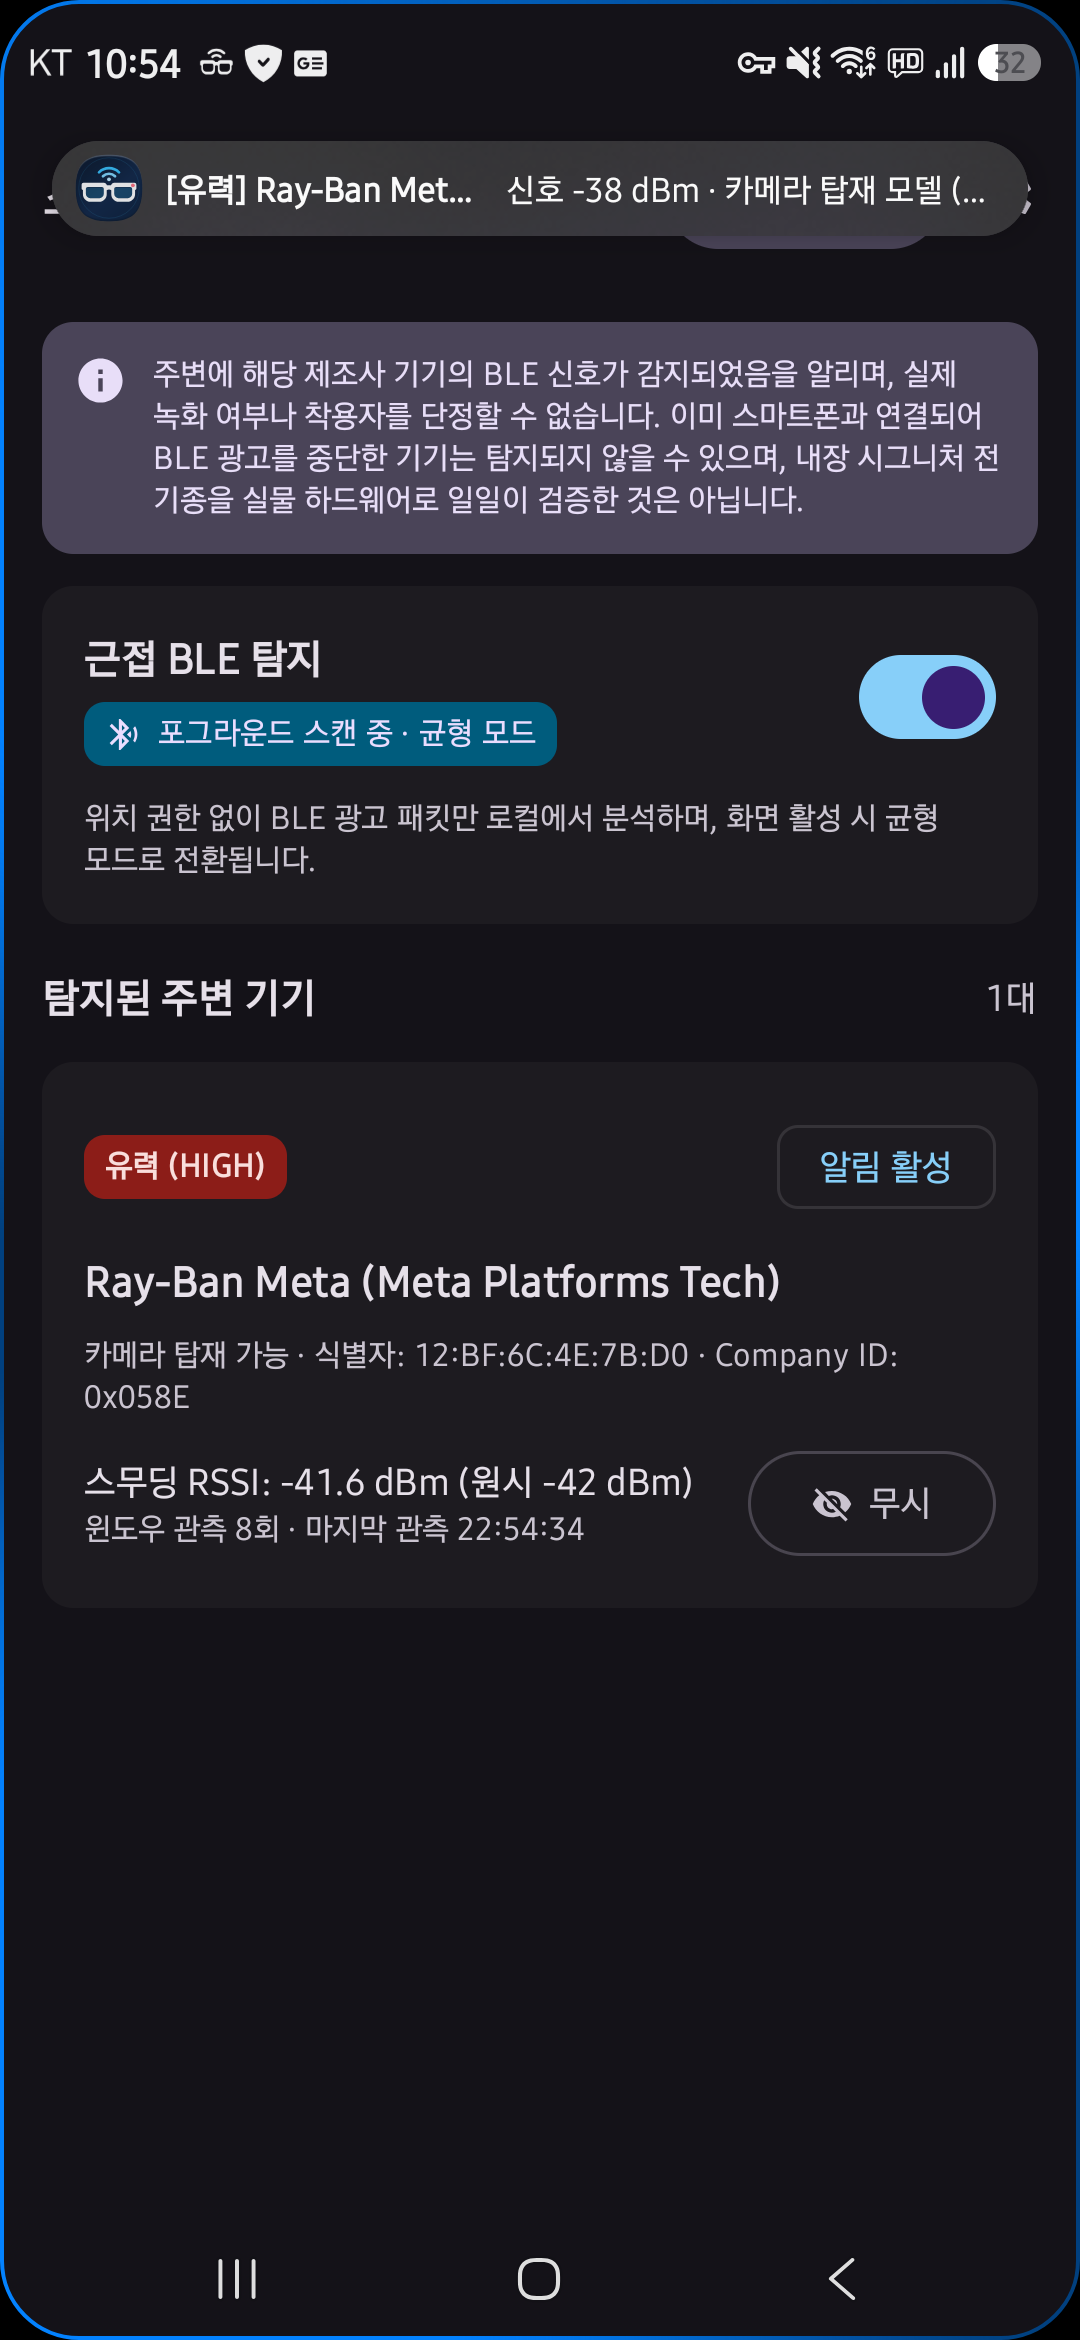
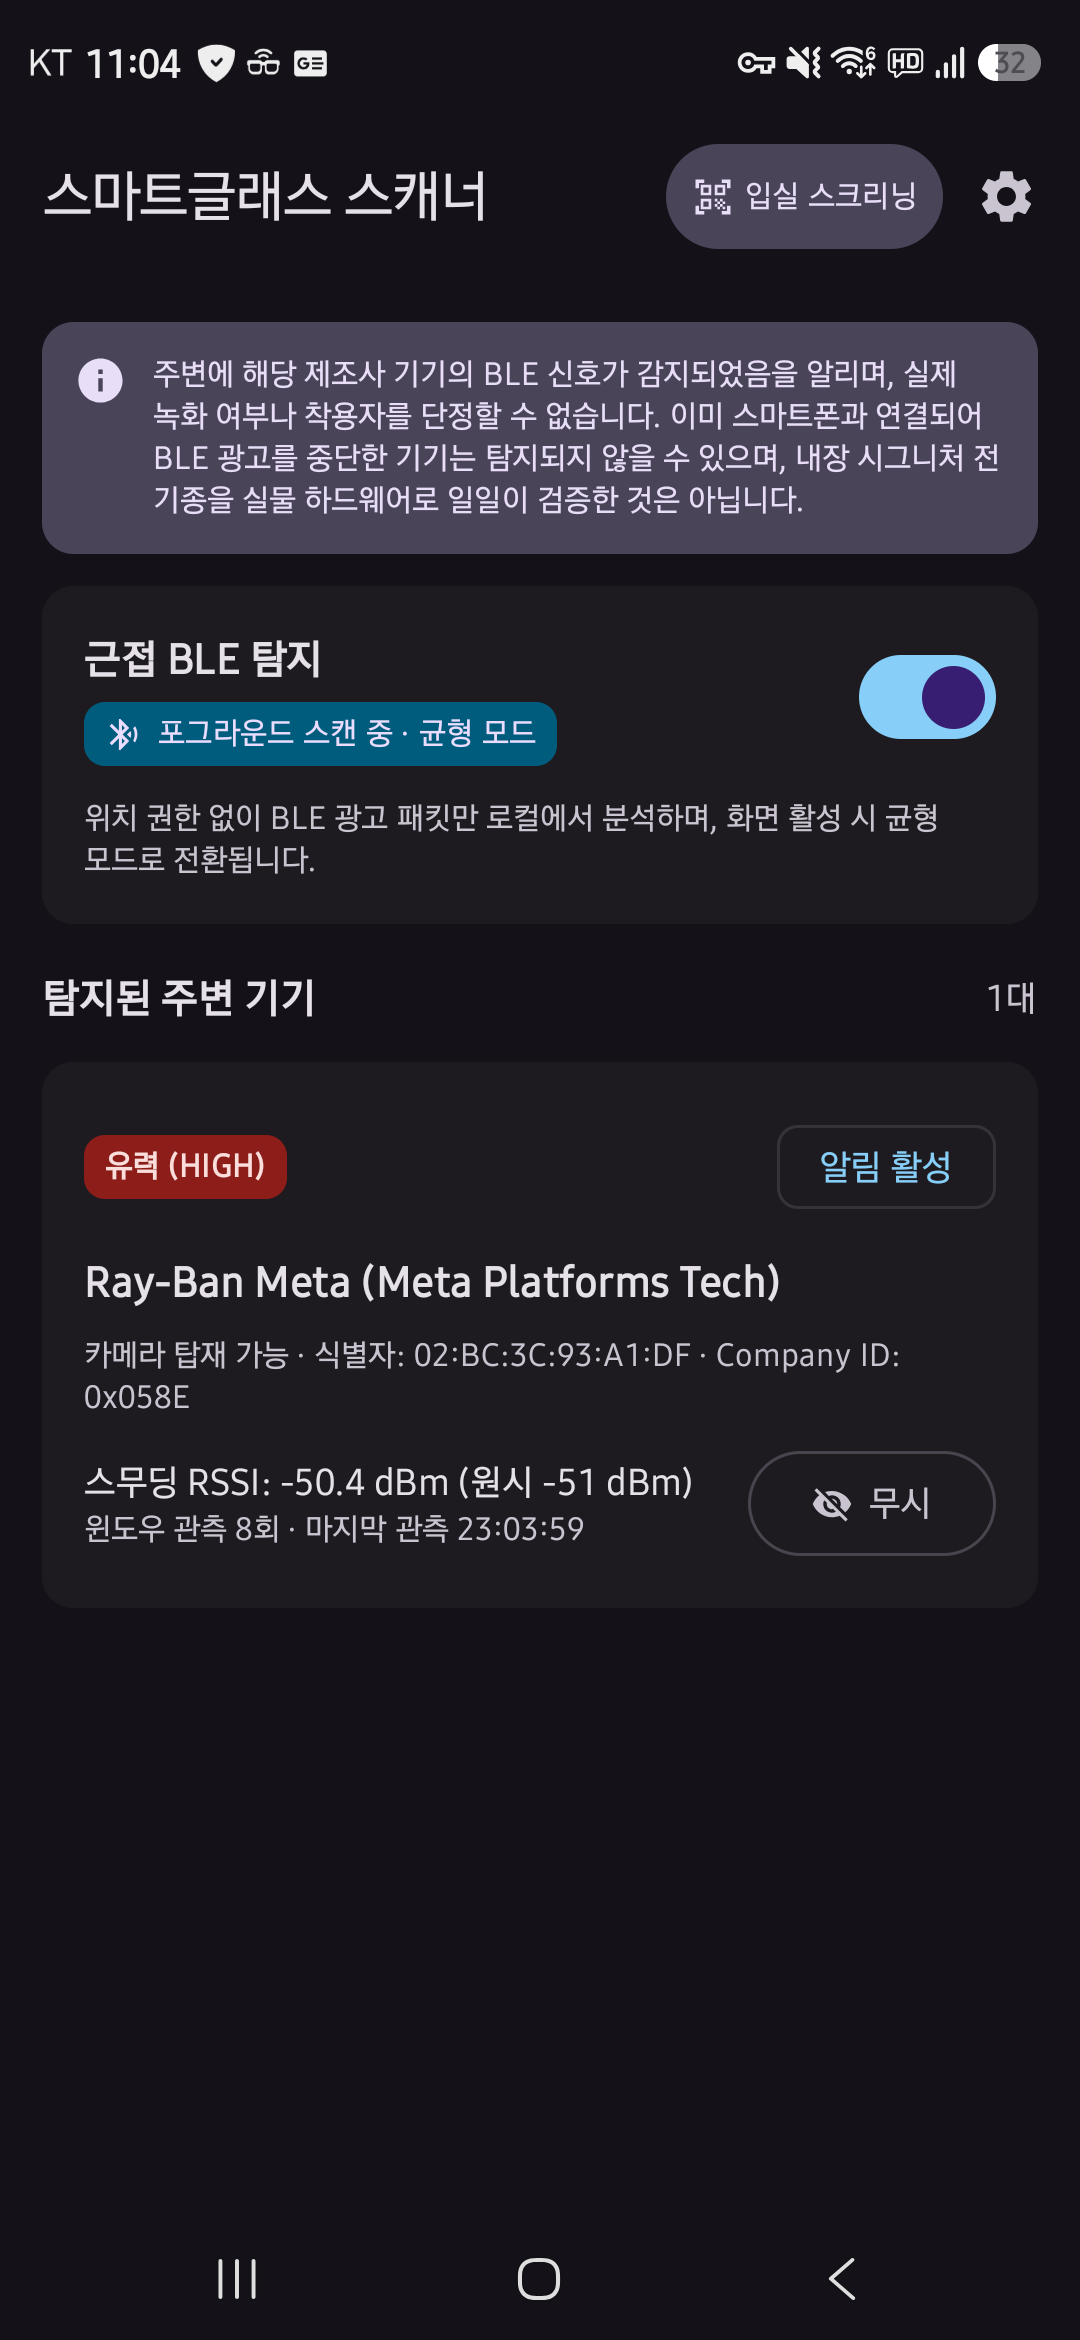
chore: generate 1080x1920 RGB Play Store screenshots and clean docs notification capture

diff --git a/store/PLAY_STORE_GUIDE.md b/store/PLAY_STORE_GUIDE.md
@@ -11,7 +11,7 @@
 | **릴리스 앱 번들 (AAB)** | R8 난독화·리소스 축소·릴리스 서명 적용 | `app/build/outputs/bundle/release/app-release.aab` | `.gitignore`로 Git 추적 제외됨 (`./gradlew bundleRelease`로 생성) |
 | **앱 아이콘** | 512 × 512 px PNG (32-bit) | `store/icon_512x512.png` | Play Console 앱 아이콘 슬롯 업로드용 |
 | **그래픽 이미지 (Feature Graphic)** | 1024 × 500 px PNG | `store/feature_graphic_1024x500.png` | Play Console 필수 배너 슬롯 |
-| **휴대전화 스크린샷** | 720 × 1560 px PNG (4장) | `store/screenshots/*.png` (`docs/screenshots/`와 동기화) | 대시보드 / 입실 스크리닝 / 알림 / 설정 화면 |
+| **휴대전화 스크린샷** | 1080 × 1920 px (9:16) 24-bit RGB PNG (4장) | `store/screenshots/01_dashboard.png` ~ `04_settings_signatures.png` | 대시보드 / 입실 스크리닝 / 알림 / 설정 화면 (타사 알림·상태바 제거, 알파 채널 없음) |
 
 > **중요 (서명 키 보관)**: 릴리스 서명 키(`windyflow.jks`)와 `keystore.properties`는 보안상 Git에서 제외되어 있습니다. 반드시 안전한 클라우드/오프라인 백업(예: Google Drive / 암호화 보관소)에 사본을 보관하세요. Play Console 업로드 시 **Google Play 앱 서명(Play App Signing)** 사용을 권장합니다.
 
